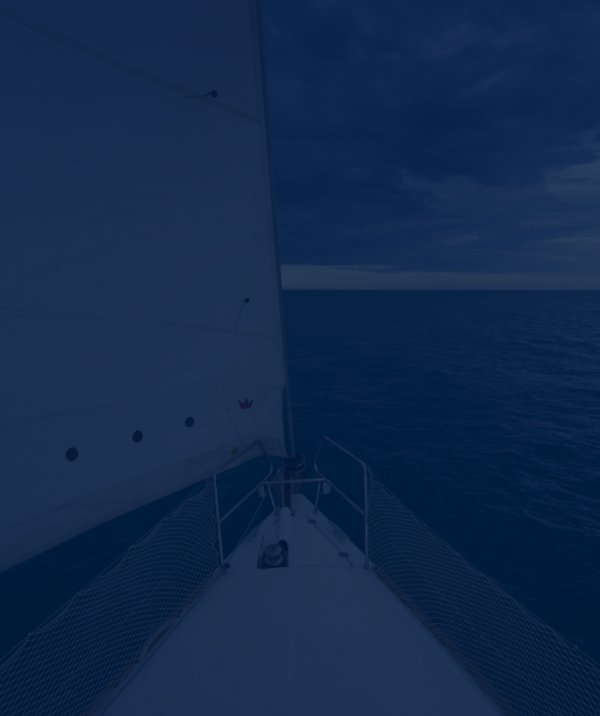
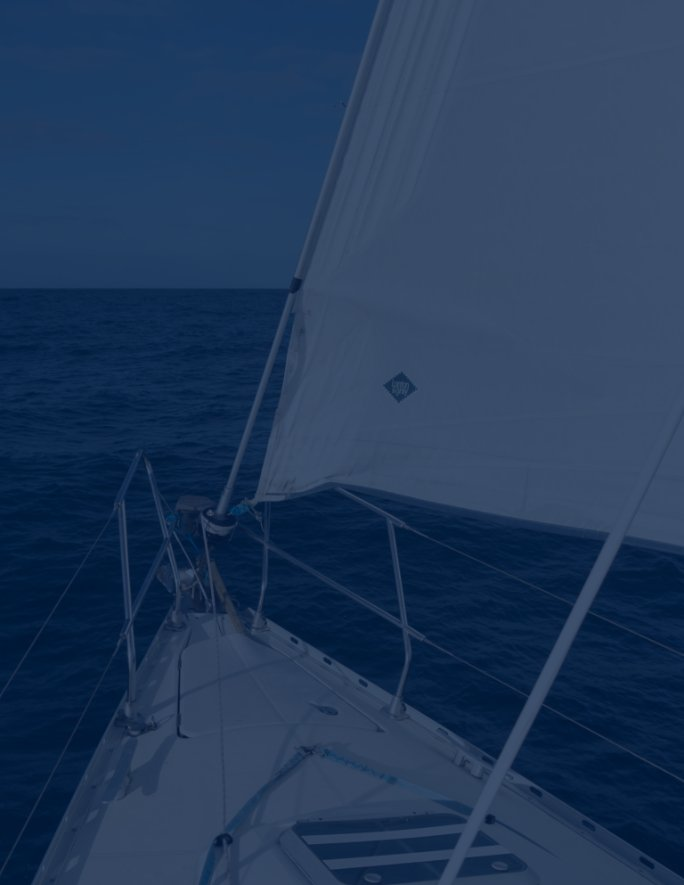
Vlogs: replace blog with links to youtube.

diff --git a/resources/sass/partials/recent-posts.scss b/resources/sass/partials/recent-posts.scss
@@ -57,6 +57,7 @@
     .recent-posts {
         align-items: flex-start;
         display: flex;
+        flex-wrap: wrap;
         justify-content: space-around;
     }
     .recent-post {
@@ -67,7 +68,7 @@
 
 @media screen and (min-width: 900px) {
     .recent-posts {
-        justify-content: center;
+        justify-content: flex-start;
     }
     .recent-post {
         width: calc(33.33333% - 20px);

diff --git a/resources/views/videos/show.blade.php b/resources/views/videos/show.blade.php
@@ -1,0 +1,61 @@
+@extends('layouts.app')
+
+@section('meta.title') {{ $post['title'] }} - {{ __('pages.posts.title') }} - @stop
+@section('meta.description') {{ __('pages.posts.description') }} @stop
+@section('meta.keywords') {{ __('pages.posts.keywords') }} @stop
+@section('meta.facebook.image'){{ $post['facebook'] }} @stop
+
+@section('body')
+
+<header class='hero hero--post' style='background-image: url({{ $post['background'] }})'>
+    <div class='hero__navigation'>
+        @include('partials.navigation')
+    </div>
+    <div class='hero__content'>
+        <p class='hero__intro'>{{ $post['published_text'] }}</p>
+        <h1 class='hero__header'>{{ $post['title'] }}</h1>
+    </div>
+    <div class='hero__footer'></div>
+</header>
+
+<article class='post'>
+    @foreach ($post['body'] as $element)
+        @if ($element['type'] === 'markdown')
+            <div class='post__text'>
+                {!! $element['content'] !!}
+            </div>
+        @elseif ($element['type'] === 'photo')
+            <div class='post__photo'>
+                <div
+                    class='post__photo-placeholder'
+                    style='padding-bottom: {{ $element['aspect_ratio'] }}%'
+                >
+                    <img
[1 lines of base64/hex data omitted]
+                        alt='{{ $element['alt'] }}'
+                        class='js-lazy-photo'
+                        data-src='{{ $element['src'] }}'
+                    >
+                </div>
+                @if (array_key_exists('title', $element))
+                    <p class='post__photo-title'>{{ $element['title'] }}</p>
+                @endif
+            </div>
+        @elseif ($element['type'] === 'video')
+            <div class='post__video'>
+                <iframe src='{{ $element['src'] }}' frameborder='0' allowfullscreen></iframe>
+            </div>
+        @endif
+    @endforeach
+    <p class='post__posted'>{{ $post['location'] }}, {{ $post['published_text'] }}</p>
+</article>
+
+{{-- @if ($previews->count() > 2)
+    @include('partials.recent_posts', [ 'posts' => $previews, 'title' => __('pages.index.recent_posts') ])
+@endif --}}
+
+@endsection
+
+@section('javascript')
+<script src='{{ asset(mix('js/blog.js')) }}'></script>
+@endsection

diff --git a/resources/lang/pl/pages.php b/resources/lang/pl/pages.php
@@ -15,7 +15,7 @@ return [
             'body' => 'Poznaliśmy się na studiach w Krakowie. Często wspólnie podróżowaliśmy, w tym żeglarsko. Kilka lat temu wpadliśmy na pomysł kupienia jachtu i popłynięcia w przygodę życia.',
             'link' => 'Więcej o załodze',
         ],
-        'recent_posts' => 'Nasz blog z podróży',
+        'recent_videos' => 'Nasze filmy z podróży',
     ],
     'crew' => [
         'title' => 'Załoga',
@@ -52,6 +52,12 @@ return [
         'description' => 'Witamy na naszym żeglarskim blogu. Przeczytaj o tym jak żeglujemy dookoła Europy na pokładzie 11-metrowej łódki.',
         'keywords' => 'jacht, żeglarstwo, blog żeglarski, vlog żeglarski, sailing, sails, jeanneau, sun odyssey, cruising',
         'recent' => 'Najnowsze wpisy',
+    ],
+    'videos' => [
+        'title' => 'Filmy',
+        'description' => 'Witamy na naszym żeglarskim blogu. Zobacz video o tym jak żeglujemy dookoła Europy na pokładzie 11-metrowej łódki.',
+        'keywords' => 'jacht, żeglarstwo, blog żeglarski, vlog żeglarski, sailing, sails, jeanneau, sun odyssey, cruising',
+        'recent' => 'Najnowsze filmy',
     ],
     'contact' => [
         'title' => 'Kontakt',

diff --git a/resources/lang/en/pages.php b/resources/lang/en/pages.php
@@ -15,7 +15,7 @@ return [
             'body' => 'We have met during studies in Kraków and we also started travelling together. Few years back we came up with an idea of buying a small sailing yacht and going for a once in the lifetime adventure.',
             'link' => 'More about the crew',
         ],
-        'recent_posts' => 'Our travel blog',
+        'recent_videos' => 'Our travel videos',
     ],
     'crew' => [
         'title' => 'The Crew',
@@ -52,6 +52,12 @@ return [
         'description' => 'Welcome to our sailing blog. Read about our cruising adventure around Europe.',
         'keywords' => 'yacht, sailing, sails, jeanneau, sun odyssey, cruising, cruser, sailing blog, sailing vlogs',
         'recent' => 'Recent entries',
+    ],
+    'videos' => [
+        'title' => 'Videos',
+        'description' => 'Welcome to our sailing videos. Read about our cruising adventure around Europe.',
+        'keywords' => 'yacht, sailing, sails, jeanneau, sun odyssey, cruising, cruser, sailing blog, sailing vlogs',
+        'recent' => 'Recent videos',
     ],
     'contact' => [
         'title' => 'Contact us',

diff --git a/resources/views/videos/index.blade.php b/resources/views/videos/index.blade.php
@@ -1,0 +1,35 @@
+@extends('layouts.app')
+
+@section('meta.title') {{ __('pages.videos.title') }} - @stop
+@section('meta.description') {{ __('pages.videos.description') }} @stop
+@section('meta.keywords') {{ __('pages.videos.keywords') }} @stop
+
+@section('css')
+<style type='text/css'>
+    .hero {
+        background-image: url({{ asset('img/bg/videos-mobile.jpg') }})
+    }
+    @media screen and (min-width: 700px) {
+        .hero {
+            background-image: url({{ asset('img/bg/videos.jpg') }})
+        }
+    }
+</style>
+@endsection
+
+@section('body')
+
+<header class='hero'>
+    <div class='hero__navigation'>
+        @include('partials.navigation')
+    </div>
+    <div class='hero__content'>
+        <p class='hero__intro'>{{ __('messages.page_title_shorter') }}</p>
+        <h1 class='hero__header hero__header--outline'>{{ __('pages.videos.title') }}</h1>
+    </div>
+    <div class='hero__footer'></div>
+</header>
+
+@include('partials.recent_videos', [ 'videos' => $videos, 'title' => __('pages.index.recent_videos') ])
+
+@endsection

diff --git a/resources/views/partials/navigation.blade.php b/resources/views/partials/navigation.blade.php
@@ -21,7 +21,8 @@
             <svg xmlns='http://www.w3.org/2000/svg' width='24' height='15' viewBox='0 0 35 22'><g transform='translate(-603.5 -59.5)'><line x2='31' transform='translate(605.5 61.5)' /><line x2='31' transform='translate(605.5 70.5)' /><line x2='31' transform='translate(605.5 79.5)' /></g></svg>
         </button>
         <ul class='navigation__list'>
-            <li><a href='{{ route('posts.index') }}'>{{ __('navigation.blog') }}</a></li>
+            {{-- <li><a href='{{ route('posts.index') }}'>{{ __('navigation.blog') }}</a></li> --}}
+            <li><a href='{{ route('videos.index') }}'>{{ __('navigation.videos') }}</a></li>
             <li><a href='{{ route('crew') }}'>{{ __('navigation.crew') }}</a></li>
             <li><a href='{{ route('boat') }}'>{{ __('navigation.boat') }}</a></li>
             <li><a href='{{ route('route') }}'>{{ __('navigation.route') }}</a></li>

diff --git a/resources/views/partials/recent_videos.blade.php b/resources/views/partials/recent_videos.blade.php
@@ -1,0 +1,18 @@
+<div class='subheader'>
+    <h2>{{ $title }}</h2>
+</div>
+
+<div class='recent-posts'>
+    @foreach ($videos as $video)
+        <div class='recent-post'>
+            <a href='{{ route('posts.show', $video['slug']) }}' class='recent-post__photo'>
+                <img src='{{ $video['thumb'] }}' alt='{{ $video['title'] }}'>
+            </a>
+            <div class='recent-post__text'>
+                <h3><a href='{{ route('posts.show', $video['slug']) }}'>{{ $video['title'] }}</a></h3>
+                <p class='recent-post__intro'>{{ $video['intro'] }}</p>
+                <p class='recent-post__more'><a href='{{ route('videos.show', $video['slug']) }}'>{{ __('messages.see_video') }}</a></p>
+            </div>
+        </div>
+    @endforeach
+</div>

diff --git a/routes/web.php b/routes/web.php
@@ -15,6 +15,8 @@ Route::middleware('localisation.front')->prefix($locale)->group(function () {
     Route::get('/crew', 'PagesController@crew')->name('crew');
     Route::get('/blog/{slug}', 'PostsController@show')->name('posts.show');
     Route::get('/blog', 'PostsController@index')->name('posts.index');
+    Route::get('/video/{slug}', 'VideosController@show')->name('videos.show');
+    Route::get('/video', 'VideosController@index')->name('videos.index');
     Route::get('/route', 'PagesController@route')->name('route');
     Route::get('/contact', 'PagesController@contact')->name('contact');
 });

diff --git a/app/Http/Controllers/VideosController.php b/app/Http/Controllers/VideosController.php
@@ -1,0 +1,22 @@
+<?php
+namespace App\Http\Controllers;
+
+use Illuminate\Http\Request;
+use App\Http\Controllers\Controller;
+
+use App\Post;
+
+class VideosController extends Controller
+{
+    public function index()
+    {
+        $videos = Post::all()->reverse();
+        return view('videos.index', [ 'videos' => $videos ]);
+    }
+
+    public function show($slug)
+    {
+        // $post = Post::get($slug);
+        // return view('posts.show', [ 'post' => $post ]);
+    }
+}

diff --git a/resources/views/pages/index.blade.php b/resources/views/pages/index.blade.php
@@ -21,8 +21,8 @@
     <div class='hero__footer'></div>
 </header>
 
-@if ($previews->count() > 0)
-    @include('partials.recent_posts', [ 'posts' => $previews, 'title' => __('pages.index.recent_posts') ])
+@if ($videos->count() > 0)
+    @include('partials.recent_videos', [ 'videos' => $videos, 'title' => __('pages.index.recent_videos') ])
 @endif
 
 @include('partials.boat_specs', [ 'include_link' => 1 ])

diff --git a/app/Http/Controllers/PagesController.php b/app/Http/Controllers/PagesController.php
@@ -11,8 +11,8 @@ class PagesController extends Controller
 {
     public function index()
     {
-        $previews = Post::previews();
-        return view('pages.index', [ 'previews' => $previews ]);
+        $videos = Post::previews();
+        return view('pages.index', [ 'videos' => $videos ]);
     }
     
     public function crew()

diff --git a/resources/lang/pl/messages.php b/resources/lang/pl/messages.php
@@ -7,6 +7,7 @@ return [
     'yacht_name' => 'Moonshine',
     'read_more' => 'Dowiedz się więcej',
     'read_post' => 'Czytaj dalej',
+    'see_video' => 'Zobacz film',
     'default_location' => 'Na morzu ⛵',
     'specs' => [
         'header' => [
